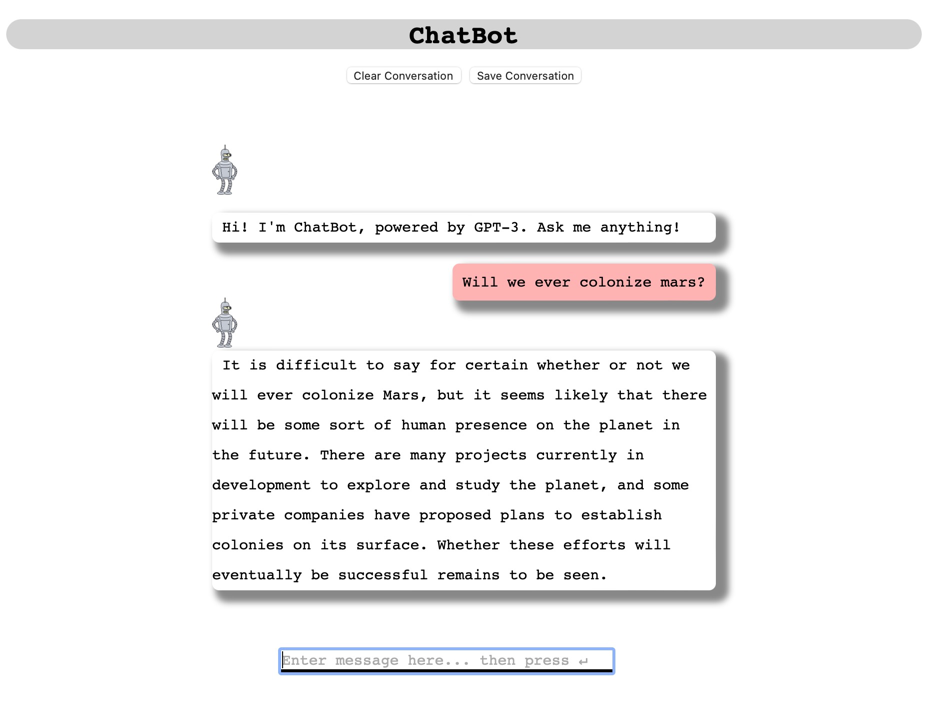
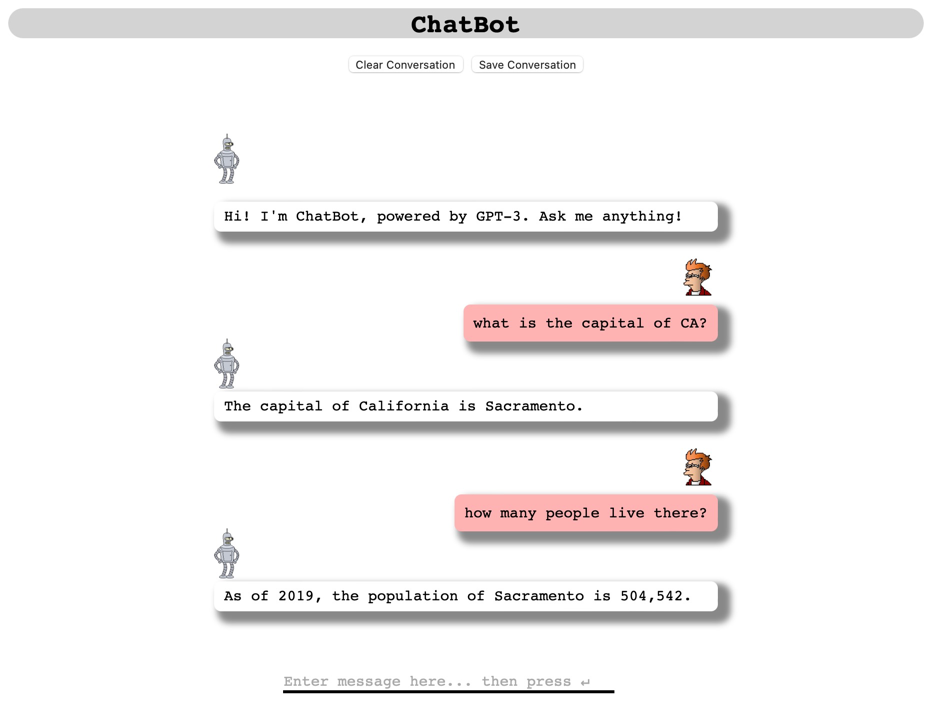
adding edits to README.md updating Dockerfile adding fry.png

Changed region(s): [[0.2183, 0.1872, 0.8108, 0.9986], [0.0, 0.0, 0.9978, 0.1248]]

diff --git a/static/js/script.js b/static/js/script.js
@@ -13,7 +13,7 @@ function getBotResponse() {
     userText = userText.replace(/</g, "&lt;").replace(/>/g, "&gt;");
 
     var chatbox = $('#chatbox');
-    chatbox.append('<div class="userText"><span>' + userText + '</span></div>');
+    chatbox.append('<div class="userText"><div class=userIcon ><img src="/static/fry.png" alt="fry" width="40"></div><span>' + userText + '</span></div>');
     //// Clear the text input field
     $('#textInput').val('');
     // Cancel the previous timeout if it exists

diff --git a/static/css/style.css b/static/css/style.css
@@ -44,6 +44,12 @@ h1 {
     margin-top: 25px;
 }
 
+.userIcon {
+    color: black;
+    font-family: monospace;
+    text-align: right;
+}
+
 .userText span {
     background-color: #ffb3b3;
     padding: 10px;

diff --git a/app.py b/app.py
@@ -5,7 +5,6 @@ import json
 import logging
 from logging.handlers import RotatingFileHandler
 import openai
-import config
 from flask import Flask, render_template, request, make_response
 
 app = Flask(__name__)
@@ -28,9 +27,8 @@ handler.setFormatter(formatter)
 # Add the handler to the logger
 logger.addHandler(handler)
 
-# Create an openaiapikey.txt file and save your api key.
-openai.api_key = config.API_KEY
-
+# Get API key from env
+openai.api_key = os.environ.get("OPENAI_API_KEY")
 
 def get_response_from_openai(prompt, engine='text-davinci-003', temp=0.9, top_p=1.0, tokens=1000, freq_pen=0.0,
                              pres_pen=0.5):

diff --git a/README.md b/README.md
@@ -26,6 +26,19 @@ Run server using `flask-gpt-uWSGI-conf.py`
 gunicorn -c flask-gpt-uWSGI-conf.py app:app
 ```
 
+If you want to build a container run 
+
+```commandline
+docker build -t flask-gpt . 
+```
+
+Then pass the OPENAI API key as an env variable
+
+```commandline
+docker run -p 443:443 -e OPENAI_API_KEY="sk-xxx" flask-gpt
+```
+
 The Server will run on the port according to the configuration the default is `http://0.0.0.0:443`
 
 ![screenshot](static/img.png)
+
